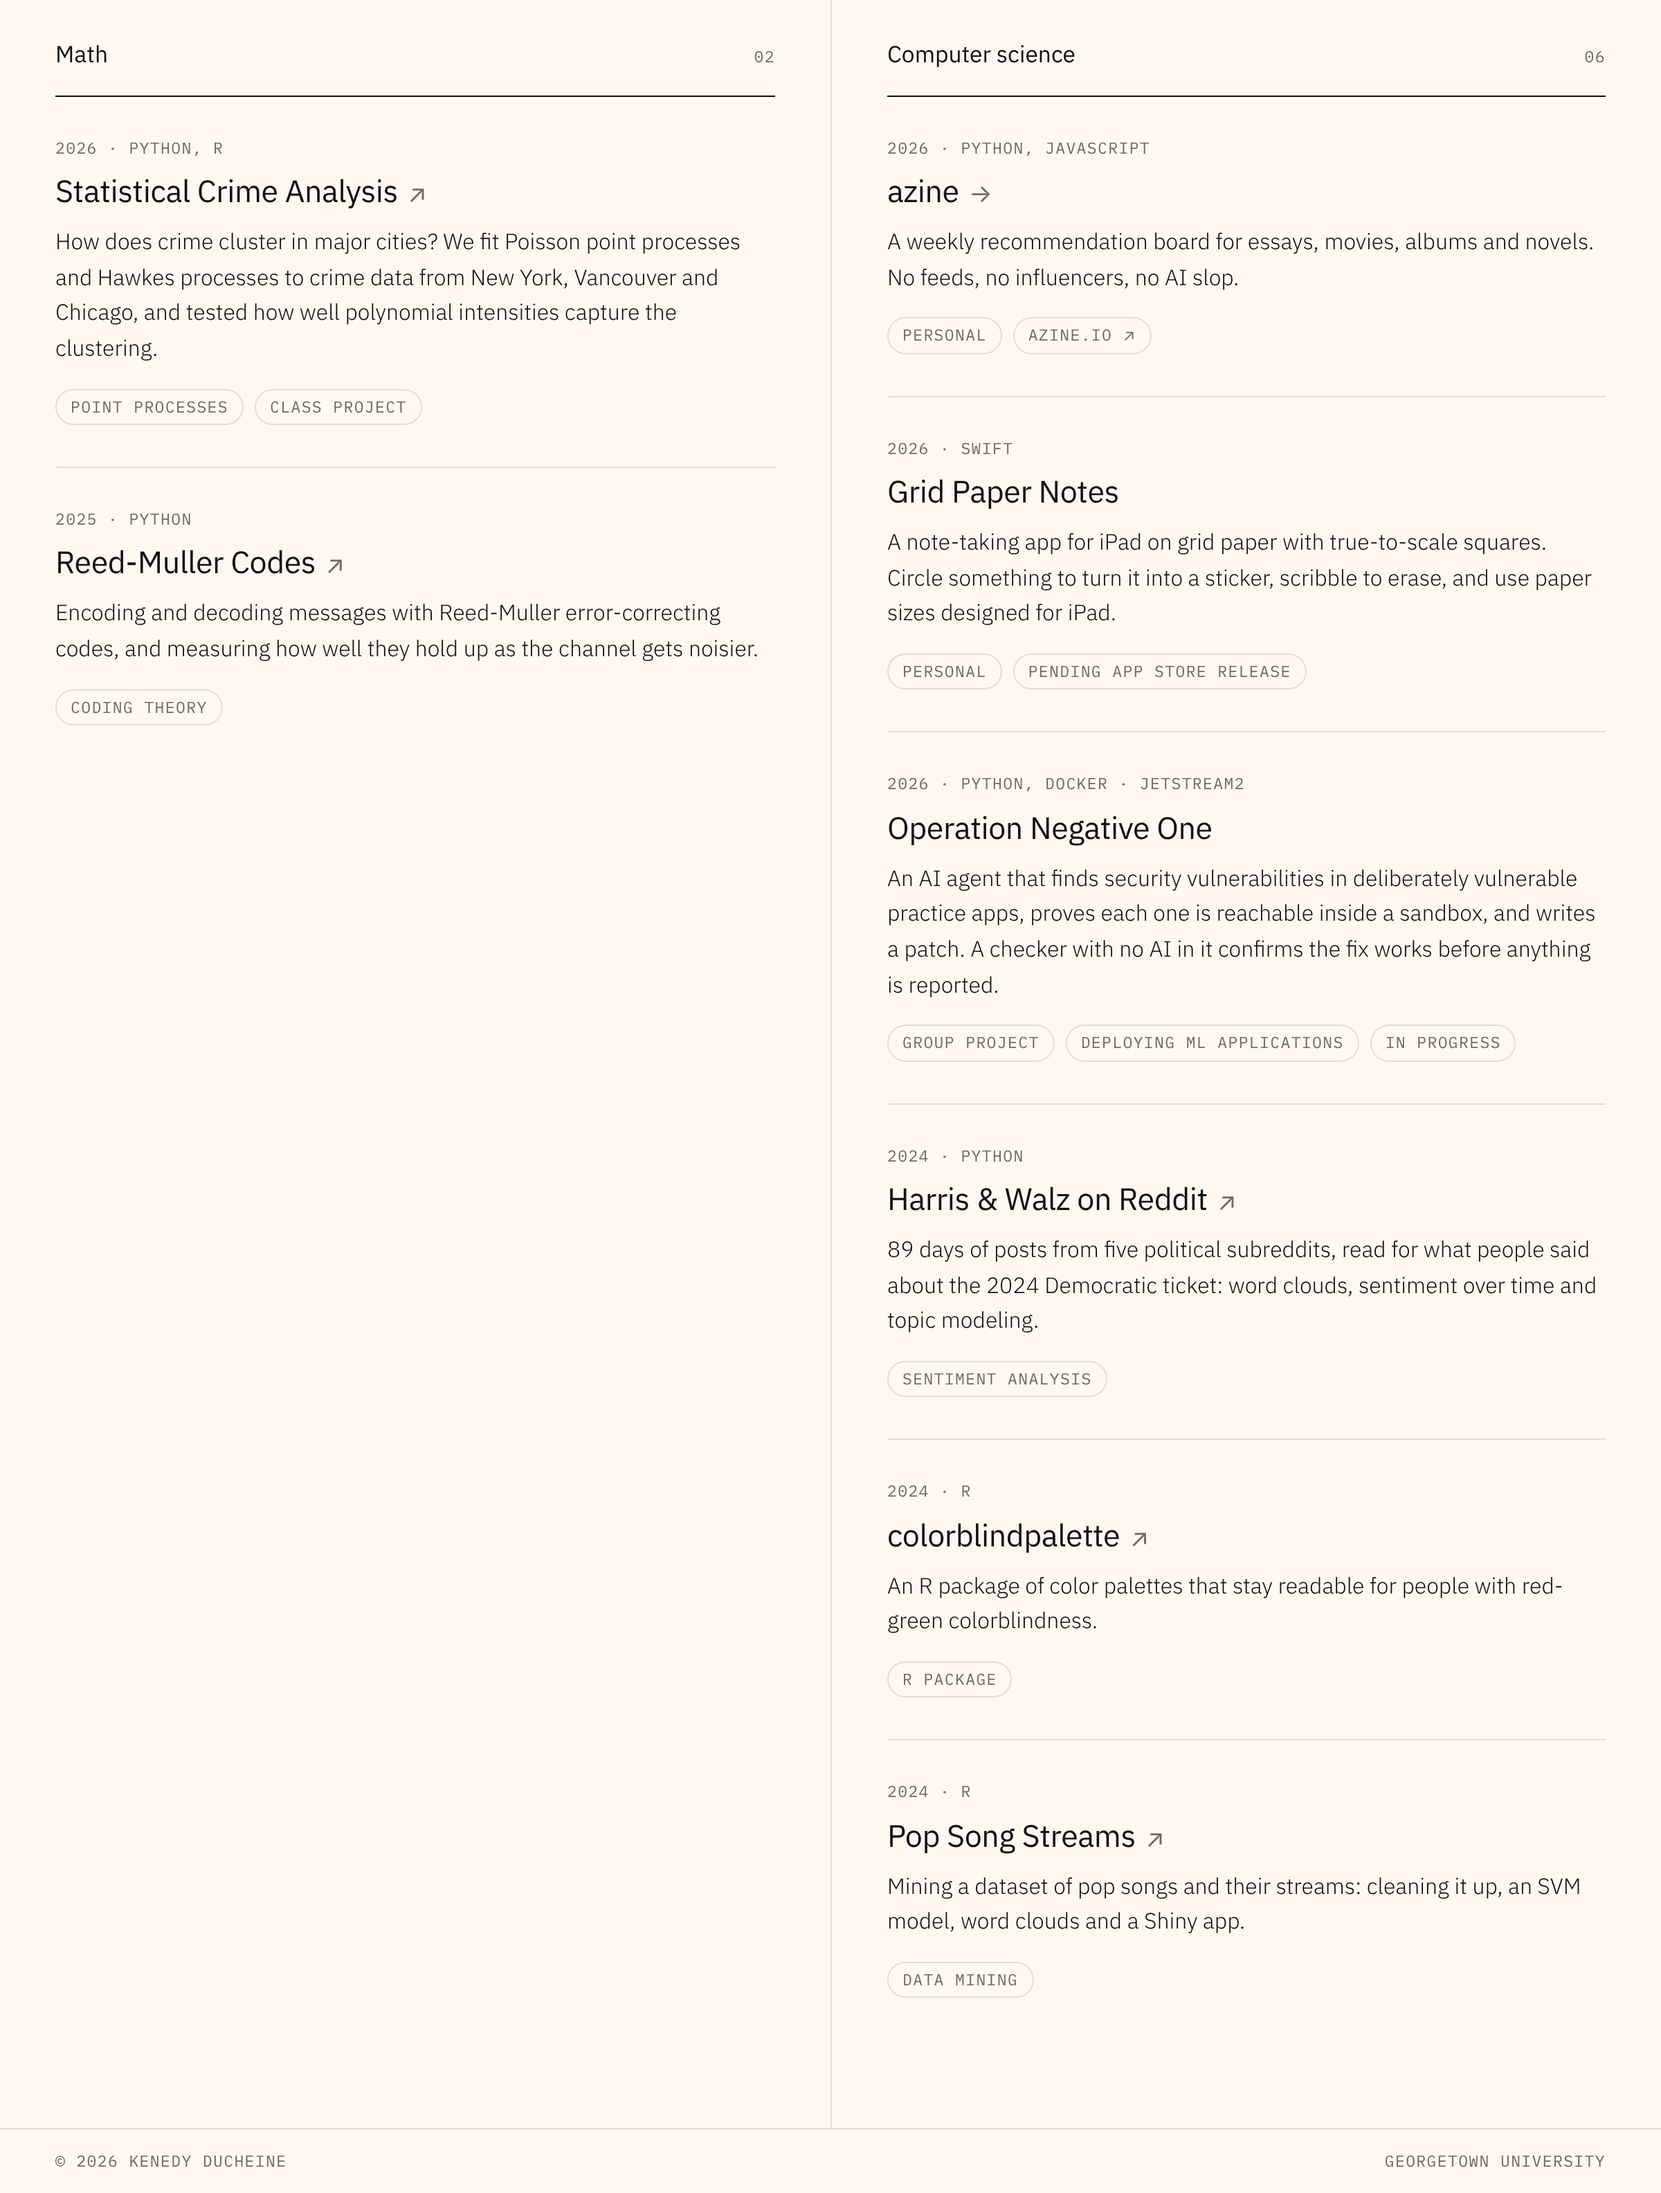
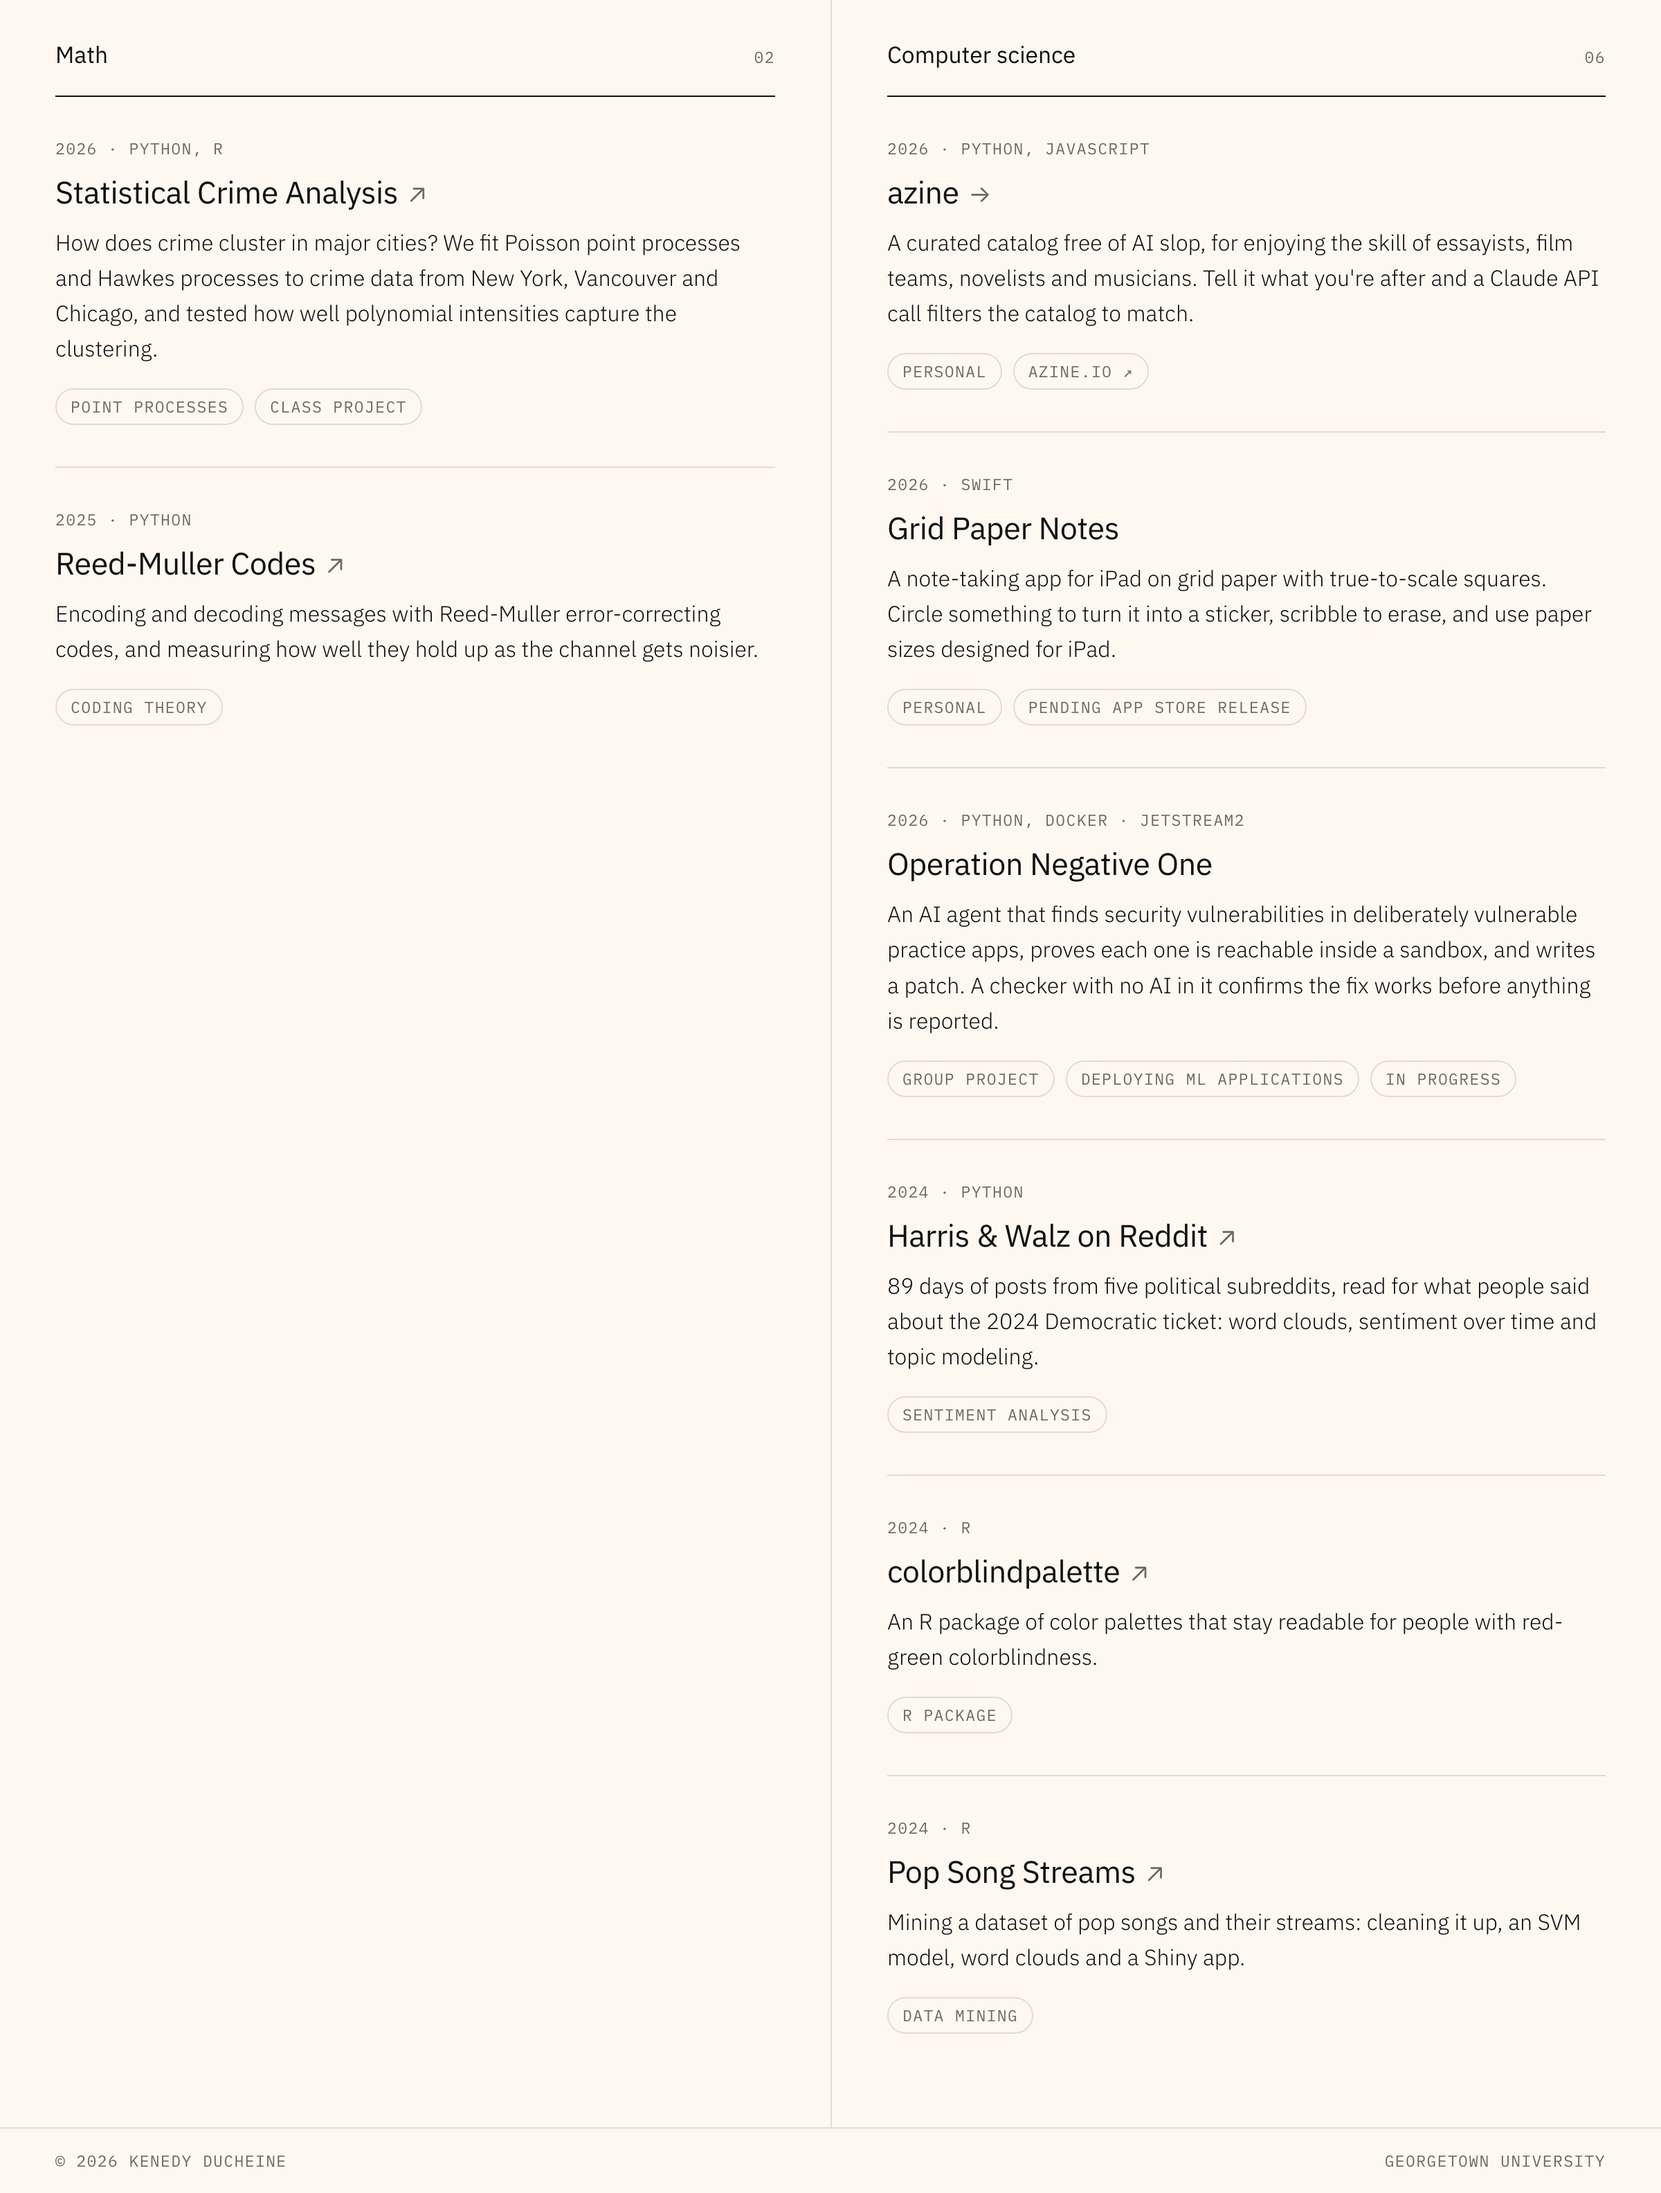
azine is now a curated catalog: update the README line and the projects picture

diff --git a/README.md b/README.md
@@ -9,7 +9,7 @@
 <a href="https://kenedyducheine.github.io"><img src="images/projects.jpg" alt="Projects in two columns. Math: Statistical Crime Analysis (2026, point processes) and Reed-Muller Codes (2025, coding theory). Computer science: azine, Grid Paper Notes, Operation Negative One, Harris and Walz on Reddit, colorblindpalette, and Pop Song Streams." width="100%"></a>
 
 <!-- plain text, so search engines have words to find (the panels above are pictures) -->
-<p align="center"><b>Kenedy Ducheine</b> · Math and statistics master's student at Georgetown University · creator of <a href="https://azine.io">azine</a>, a weekly recommendation board for essays, movies, albums and novels, and Grid Paper Notes, a grid paper notes app for the iPad.</p>
+<p align="center"><b>Kenedy Ducheine</b> · Math and statistics master's student at Georgetown University · creator of <a href="https://azine.io">azine</a>, a curated catalog of essays, movies, albums and novels free of AI slop, and Grid Paper Notes, a grid paper notes app for the iPad.</p>
 
 <p align="center">
   <a href="https://kenedyducheine.github.io">kenedyducheine.github.io</a> ·
